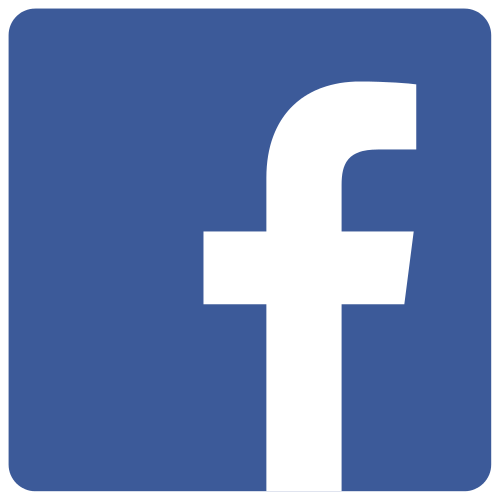
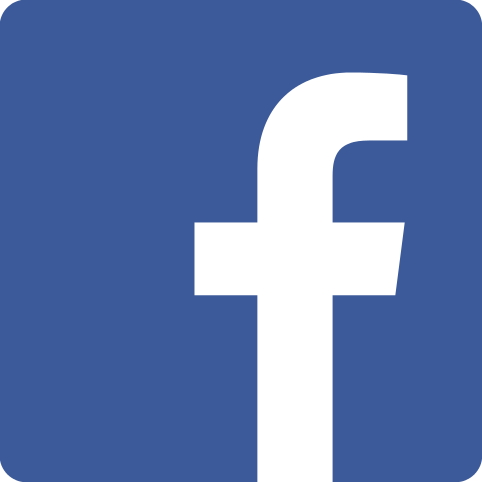
completed packages-section trimmed p-fb1.png because of whitespace fiddled with footer

diff --git a/assets/css/style.css b/assets/css/style.css
@@ -84,11 +84,24 @@ footer {
 }
 
 .pkg-item {
-	width: 300px;
+	width: 260px;
 	background-color: rgba(0,0,0,0.3);
-	display: inline-block;
+	display: inline-table; /* why does this work instead of inline-block? */
 	margin-right: 20px;
 	text-align: left;
+	padding: 20px;
+	height: 600px;
+}
+
+.pkg-item-heading {
+	font-size: 54px;
+	color: #e5e5e5;
+}
+
+.pkg-item-text {
+	font-size: 18px;
+	font-family: Tuffy, Helvetica, sans-serif;
+	color: #e5e5e5;
 }
 
 .cta-text {
@@ -187,12 +200,12 @@ footer {
 	font-size: 22px;
 	display: inline;
 	position: relative;
-	bottom: 4px;
+	bottom: 8px;
 }
 
 #findUsFb img {
 	display: inline;
-	width: 26px;
+	height: 26px;
 	padding-right: 8px;
 }
 
@@ -207,12 +220,12 @@ footer {
 	font-size: 22px;
 	display: inline;
 	position: relative;
-	bottom: 2px;
+	bottom: 8px;
 }
 
 #emailUs img {
 	display: inline;
-	width: 32px;
+	height: 26px;
 	padding-left: 8px;
 }
 

diff --git a/application/views/home.php b/application/views/home.php
@@ -18,8 +18,29 @@
 	</div>
 
 	<div id="packages-section">
-		<div class="pkg-item" style="height: 600px;"></div>
-		<div class="pkg-item" style="height: 600px;"></div>
-		<div class="pkg-item" style="height: 600px; margin-right: 0;"></div>
+		<div class="pkg-item">
+			<p class="pkg-item-heading">FREE</p>
+			<p class="pkg-item-text">
+				Basically nothing.<br /><br />
+				You might get an email from us.<br /><br />
+				Time is money, idiots.
+			</p>
+		</div>
+		<div class="pkg-item">
+			<p class="pkg-item-heading">MIDDLE MARK</p>
+			<p class="pkg-item-text">
+				This is somewhere in the middle.<br /><br />
+				No idea what will work.
+			</p>
+		</div>
+		<div class="pkg-item" style="margin-right: 0; text-align: right;">
+			<p class="pkg-item-heading">PAID</p>
+			<p class="pkg-item-text">
+				Definitely more than nothing.<br /><br />
+				You'll probably get a website out of us.<br /><br />
+				We may even meet you if the project is worth the time.<br /><br />
+				While stocks last! Our effort is limited!
+			</p>
+		</div>
 	</div>
 </main>

diff --git a/application/views/footer.php b/application/views/footer.php
@@ -2,10 +2,16 @@
 <footer>
 	<div class="container" style="max-width: 550px;">
 		<div id="findUsFb">
-			<a href=""><img src="<?php echo 'http://' . $_SERVER['SERVER_NAME'] . '/world_of_it/assets/img/p-fb1.png' ?>" /><p>Find us on Facebook</p></a>
+			<a href="">
+				<img src="<?php echo 'http://' . $_SERVER['SERVER_NAME'] . '/world_of_it/assets/img/p-fb1.png' ?>" />
+				<p class="hvr-underline-from-left">Find us on Facebook</p>
+			</a>
 		</div>
 		<div id="emailUs">
-			<a href=""><p>Send us an email</p><img src="<?php echo 'http://' . $_SERVER['SERVER_NAME'] . '/world_of_it/assets/img/p-em.png' ?>"/></a>
+			<a href="">
+				<p class="hvr-underline-from-left">Send us an email</p>
+				<img src="<?php echo 'http://' . $_SERVER['SERVER_NAME'] . '/world_of_it/assets/img/p-em.png' ?>"/>
+			</a>
 		</div>
 		<p id="copyright-text">&copy; Copyright 2016 World of I.T. Pty. Ltd. All rights reserved. <a href="">PRIVACY STATEMENT</a> <a href="">SITEMAP</a></p>
 	</div>
